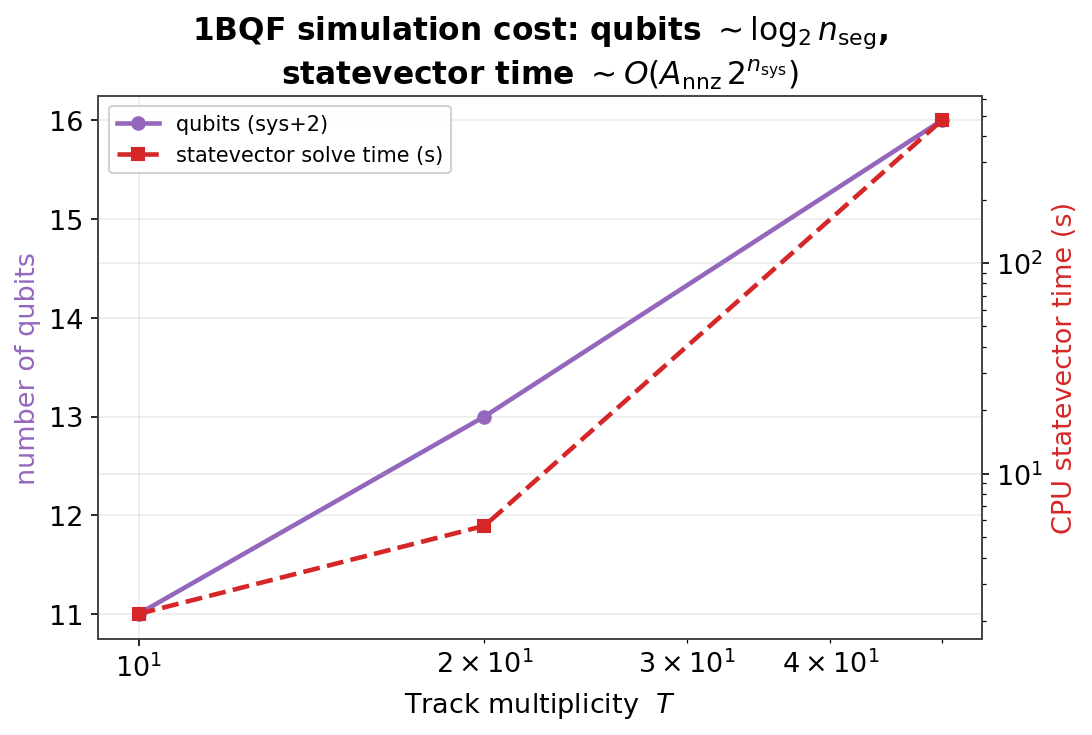
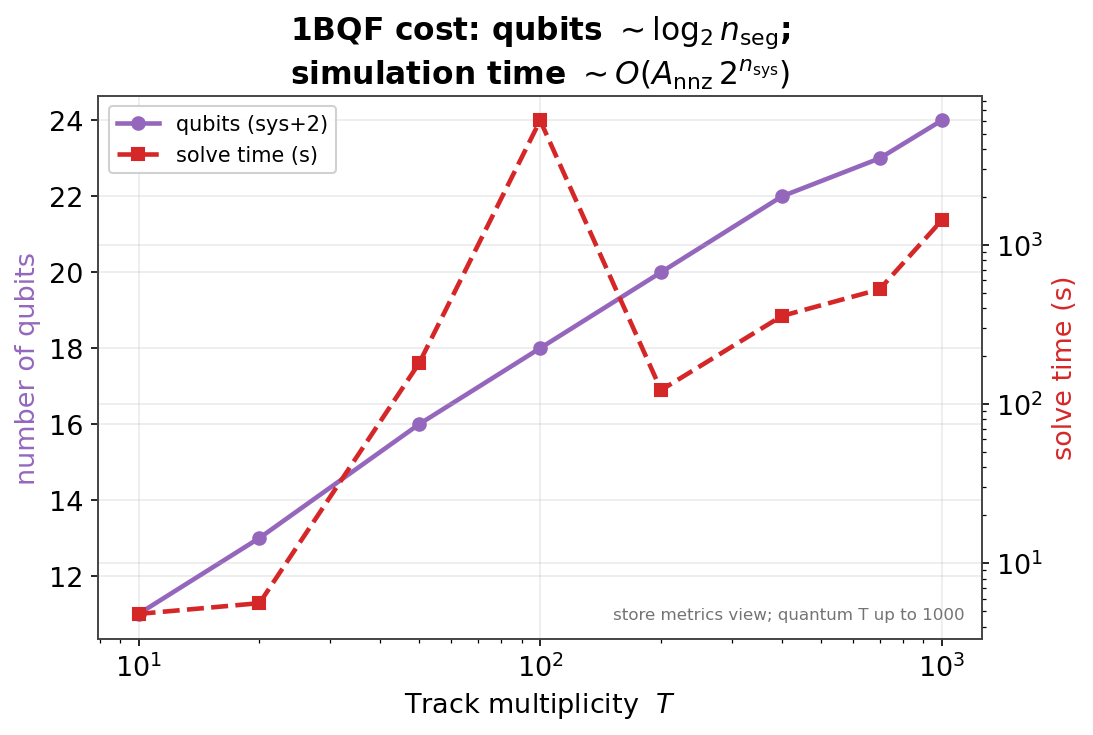
Refresh deck + segment-level figures from rebuilt store (T to 1000)
Store grew (solutions 9k->12.8k; quantum 103->1217, now T=10..1000). Rebuilt the
metrics view and regenerated all data-driven figures.

Key fix: cos_QC_vs_T (and the quantum figures) now use the CANONICAL signal-
support cos_QC from qtrk_pipeline.metrics (cos on x_C>0.35), not the full-vector
cosine. The fidelity is high & flat (~0.97) across T (step to T=1000 via the
formula-eps Epsilon_study_2 cell; erf to T=400), with quantum eff=0.75 (step) /
1.0 (erf). Classical aggregate figs rebuilt from the larger metrics.csv.
Re-ran Segment_level_studies nb01/nb02 (fixed-eps quantum still caps at T=400;
T=700/1000 quantum pending in held Condor jobs).

diff --git a/Toy_Characterisation/Presentation_mini_q_workshop_UM/scripts/fig_quantum.py b/Toy_Characterisation/Presentation_mini_q_workshop_UM/scripts/fig_quantum.py
@@ -1,16 +1,17 @@
 """
 Quantum (1BQF) vs classical comparison figures.
 
-Data sources (all fresh / new):
-  * assets/quantum_sweep.csv  — fresh CPU statevector sweep (T=10/20/50, step+erf, 3 reps)
-  * qtrk_store metrics.csv     — the campaign's T=200 quantum (step) as a high-T anchor
-  * assets/solvecs_T*.npz      — representative classical + rescaled-quantum vectors
+Now sourced from the FULL store metrics view (qtrk_store/manifest/metrics.csv),
+which after the campaign carries quantum solves across T=10..1000 for both
+kernels — so the vs-T curves are no longer the thin CPU-sweep stub.  We select
+the clean physics cell (sigma_scatt=1e-4, sigma_res=0, no drop, gamma=3) and
+pool it across studies (same deterministic events) to maximise T coverage.
 
 Produces (figures/):
-  cos_QC_vs_T              quantum-classical fidelity vs T (step vs erf), + T=200 anchor
+  cos_QC_vs_T              quantum-classical fidelity vs T (step vs erf)
   P_anc_vs_T               ancilla success probability vs T
-  quantum_seg_metrics_vs_T quantum segment efficiency & purity vs T (vs classical)
-  solution_hist_CQ         classical vs rescaled-quantum activation histograms (true/false)
+  quantum_seg_metrics_vs_T quantum segment efficiency & purity vs T (+ classical)
+  solution_hist_CQ         classical vs rescaled-quantum activation histograms
   quantum_cost_vs_T        n_qubits and statevector solve time vs T
 """
 from __future__ import annotations
@@ -21,6 +22,14 @@ import pandas as pd
 import matplotlib.pyplot as plt
 
 SWEEP = cm.ASSETS / "quantum_sweep.csv"
+_M = None
+
+
+def M():
+    global _M
+    if _M is None:
+        _M = pd.read_csv(cm.METRICS_CSV)
+    return _M
 
 
 def _agg(df, by, col):
@@ -29,95 +38,142 @@ def _agg(df, by, col):
     return g
 
 
-def load_sweep():
-    if not SWEEP.exists():
-        raise SystemExit("quantum_sweep.csv not present yet — wait for gen_quantum.py")
-    return pd.read_csv(SWEEP)
+# Per-kernel "clean" cell chosen to reach the highest available T with a single
+# consistent physics point.  cos_QC is the CANONICAL signal-support cosine
+# (qtrk_pipeline.metrics: cos on sol_C>0.35, false-bulk-free); the full-vector
+# cosine is ~0.1 and understates the solve (it is dominated by the 0.25 bulk).
+KERNEL_CELL = {                              # (study) reaching highest T
+    "step": "Epsilon_study_2",               # formula eps, quantum to T=1000
+    "erf":  "ERF",                           # formula eps, quantum to T=400
+}
 
 
-def store_quantum_anchor():
-    """Clean-cell T=200 quantum (step) cos_QC from the store, if present."""
-    M = pd.read_csv(cm.METRICS_CSV)
-    q = M[(M.solver == "quantum") & (M.n_trk == 200) & (M.kernel == "step")]
-    clean = q[(q.sigma_res == 0.0) & (np.isclose(q.sigma_scatt, 1e-4)) &
-              (q.hit_ineff == 0.0)]
-    use = clean if len(clean) else q
-    if not len(use):
-        return None
-    return dict(T=200, cos_mean=use.cos_QC.mean(), cos_sem=use.cos_QC.std()/np.sqrt(len(use)),
-                P_anc=use.P_anc.mean(), n=len(use), clean=bool(len(clean)))
+def cell(solver, kernel):
+    d = M()
+    m = (d.solver == solver) & (d.study == KERNEL_CELL[kernel]) & (d.kernel == kernel) & \
+        (np.isclose(d.sigma_scatt, 1e-4)) & (d.sigma_res == 0.0) & (d.hit_ineff == 0.0)
+    if "gamma" in d.columns:
+        m &= np.isclose(d.gamma, 3.0)
+    return d[m].copy()
+
+
+def _series(df, col):
+    """median + (mad-ish) spread per n_trk — robust to the rare failed solve."""
+    g = df.groupby("n_trk")[col]
+    out = g.median().reset_index().rename(columns={col: "med"})
+    out["lo"] = g.quantile(0.16).values; out["hi"] = g.quantile(0.84).values
+    out["n"] = g.size().values
+    return out.sort_values("n_trk")
+
+
+def _tmax_note(ax, *dfs):
+    tmax = max(int(d.n_trk.max()) for d in dfs if len(d))
+    ax.text(0.98, 0.03, f"store metrics view; quantum T up to {tmax}",
+            transform=ax.transAxes, ha="right", va="bottom", fontsize=8, color="0.45")
 
 
 # ---------------------------------------------------------------------------
 def fig_cos_QC_vs_T():
-    s = load_sweep()
-    fig, ax = plt.subplots(figsize=(7.6, 4.8))
-    for kern, c, mk in [("step", cm.C["step"], "o"), ("erf", cm.C["erf"], "s")]:
-        a = _agg(s[s.kernel == kern], "T", "cos_QC").sort_values("T")
-        ax.errorbar(a["T"], a["mean"], yerr=a["sem"], marker=mk, capsize=3,
-                    color=c, label=f"{kern} kernel")
-    anc = store_quantum_anchor()
-    if anc:
-        ax.errorbar([anc["T"]], [anc["cos_mean"]], yerr=[anc["cos_sem"]], marker="*",
-                    ms=15, color=cm.C["step"], mec="k",
-                    label=f"step, $T=200$ (store, n={anc['n']})")
+    qs, qe = cell("quantum", "step"), cell("quantum", "erf")
+    fig, ax = plt.subplots(figsize=(7.8, 4.8))
+    for df, c, mk, lab in [(qs, cm.C["step"], "o", "step kernel"),
+                           (qe, cm.C["erf"], "s", "erf kernel")]:
+        a = _series(df, "cos_QC")
+        if a.empty:
+            continue
+        ax.fill_between(a["n_trk"], a["lo"], a["hi"], color=c, alpha=0.15)
+        ax.plot(a["n_trk"], a["med"], marker=mk, color=c, label=lab)
     ax.set_xscale("log"); ax.set_xlabel("Track multiplicity  $T$")
-    ax.set_ylabel(r"quantum fidelity  $\cos\theta_{QC}$"); ax.set_ylim(0, 1)
-    ax.set_title("1BQF$-$classical fidelity vs multiplicity\n(erf $>$ step at every $T$; both fall as $T$ grows)")
-    ax.legend(); cm.savefig(fig, "cos_QC_vs_T")
+    ax.set_ylabel(r"fidelity  $\cos\theta_{QC}$ (signal support)"); ax.set_ylim(0.5, 1.01)
+    ax.axhline(1.0, ls=":", c="grey", lw=1)
+    ax.set_title("1BQF$-$classical fidelity is high & flat across multiplicity\n"
+                 "(measured on the classical signal support, $x_C>0.35$)")
+    ax.legend(loc="lower left"); _tmax_note(ax, qs, qe)
+    cm.savefig(fig, "cos_QC_vs_T")
 
 
 def fig_P_anc_vs_T():
-    s = load_sweep()
+    qs, qe = cell("quantum", "step"), cell("quantum", "erf")
     fig, ax = plt.subplots(figsize=(7.4, 4.7))
-    for kern, c, mk in [("step", cm.C["step"], "o"), ("erf", cm.C["erf"], "s")]:
-        a = _agg(s[s.kernel == kern], "T", "P_anc").sort_values("T")
-        ax.errorbar(a["T"], a["mean"], yerr=a["sem"], marker=mk, capsize=3,
-                    color=c, label=f"{kern} kernel")
-    anc = store_quantum_anchor()
-    if anc:
-        ax.scatter([anc["T"]], [anc["P_anc"]], marker="*", s=200,
-                   color=cm.C["step"], edgecolor="k", zorder=5, label="step, $T=200$ (store)")
+    for df, c, mk, lab in [(qs, cm.C["step"], "o", "step kernel"),
+                           (qe, cm.C["erf"], "s", "erf kernel")]:
+        a = _series(df, "P_anc")
+        if a.empty:
+            continue
+        ax.plot(a["n_trk"], a["med"], marker=mk, color=c, label=lab)
+    # 1/T guide
+    T = np.array(sorted(qs.n_trk.unique()), float)
+    if len(T):
+        ref = _series(qs, "P_anc")["med"].iloc[0] * (T[0] / T)
+        ax.plot(T, ref, "k--", lw=1.2, alpha=0.6, label=r"$\propto 1/T$ guide")
     ax.set_xscale("log"); ax.set_yscale("log")
     ax.set_xlabel("Track multiplicity  $T$")
     ax.set_ylabel(r"ancilla success $P_{\rm anc}$")
-    ax.set_title("Ancilla post-selection probability shrinks with $T$\n(more segments $\\Rightarrow$ smaller true-band weight)")
-    ax.legend(); cm.savefig(fig, "P_anc_vs_T")
+    ax.set_title("Ancilla post-selection probability shrinks $\\sim1/T$")
+    ax.legend(); _tmax_note(ax, qs, qe); cm.savefig(fig, "P_anc_vs_T")
 
 
 def fig_quantum_seg_metrics_vs_T():
-    s = load_sweep()
-    fig, ax = plt.subplots(figsize=(7.6, 4.8))
-    sub = s[s.kernel == "step"]
-    for col, lab, c in [("effQ", "quantum efficiency", cm.C["true"]),
-                        ("purQ", "quantum purity", cm.C["quantum"]),
-                        ("effC", "classical efficiency", cm.C["classical"])]:
-        a = _agg(sub, "T", col).sort_values("T")
-        ls = "-" if col != "effC" else "--"
-        ax.errorbar(a["T"], a["mean"], yerr=a["sem"], marker="o", capsize=3,
-                    color=c, ls=ls, label=lab)
+    qs, qe = cell("quantum", "step"), cell("quantum", "erf")
+    fig, ax = plt.subplots(figsize=(7.8, 4.8))
+    for df, col, lab, color, mk in [
+        (qs, "segment_efficiency", "step: efficiency", cm.C["step"], "o"),
+        (qs, "segment_purity", "step: purity", cm.C["classical"], "o"),
+        (qe, "segment_efficiency", "erf: efficiency", cm.C["erf"], "s"),
+        (qe, "segment_purity", "erf: purity", cm.C["quantum"], "s")]:
+        a = _series(df, col)
+        if a.empty:
+            continue
+        ls = "-" if "efficiency" in lab else "--"
+        ax.plot(a["n_trk"], a["med"], marker=mk, color=color, ls=ls, label=lab)
     ax.set_xscale("log"); ax.set_xlabel("Track multiplicity  $T$")
-    ax.set_ylabel("segment metric (after $x>0.35$)"); ax.set_ylim(0.4, 1.05)
-    ax.set_title("After threshold, 1BQF recovers the true segments (clean, step)")
-    ax.legend(loc="lower left"); cm.savefig(fig, "quantum_seg_metrics_vs_T")
+    ax.set_ylabel("quantum segment metric (at $x>0.35$)"); ax.set_ylim(-0.03, 1.05)
+    ax.set_title("1BQF segment metrics: erf keeps all true (eff=1);\n"
+                 "step drops the outer segment (eff$\\approx$0.75); purity falls at high $T$")
+    ax.legend(loc="lower left", fontsize=9, ncol=2); _tmax_note(ax, qs, qe)
+    cm.savefig(fig, "quantum_seg_metrics_vs_T")
 
 
+def fig_quantum_cost_vs_T():
+    qs = cell("quantum", "step")
+    fig, ax = plt.subplots(figsize=(7.6, 4.7))
+    if "n_qubits" in qs.columns and qs["n_qubits"].notna().any():
+        aq = _agg(qs, "n_trk", "n_qubits").sort_values("n_trk")
+    else:  # derive from n_seg: n_sys = ceil(log2 n_seg), +2 (time+ancilla)
+        qs = qs.assign(n_qubits=np.ceil(np.log2(qs.n_seg.clip(lower=2))) + 2)
+        aq = _agg(qs, "n_trk", "n_qubits").sort_values("n_trk")
+    tcol = "t_solve" if "t_solve" in qs.columns else None
+    l1, = ax.plot(aq["n_trk"], aq["mean"], "o-", color=cm.C["accent"], label="qubits (sys+2)")
+    ax.set_xscale("log"); ax.set_xlabel("Track multiplicity  $T$")
+    ax.set_ylabel("number of qubits", color=cm.C["accent"])
+    handles = [l1]
+    if tcol and qs[tcol].notna().any() and (qs[tcol] > 0).any():
+        at = _agg(qs[qs[tcol] > 0], "n_trk", tcol).sort_values("n_trk")
+        ax2 = ax.twinx(); ax2.set_xscale("log"); ax2.set_yscale("log")
+        l2, = ax2.plot(at["n_trk"], at["mean"], "s--", color=cm.C["quantum"],
+                       label="solve time (s)")
+        ax2.set_ylabel("solve time (s)", color=cm.C["quantum"]); handles.append(l2)
+    ax.set_title("1BQF cost: qubits $\\sim\\log_2 n_{\\rm seg}$;\n"
+                 "simulation time $\\sim O(A_{\\rm nnz}\\,2^{n_{\\rm sys}})$")
+    ax.legend(handles=handles, loc="upper left", fontsize=10)
+    _tmax_note(ax, qs); cm.savefig(fig, "quantum_cost_vs_T")
+
+
+# --- per-event histogram (unchanged: representative stored vectors) --------
 def fig_solution_hist_CQ(T=20, kernel="step"):
     p = cm.ASSETS / f"solvecs_T{T}_{kernel}.npz"
     if not p.exists():
-        print(f"  [skip] solution_hist_CQ: {p.name} not present yet"); return
+        print(f"  [skip] solution_hist_CQ: {p.name} not present"); return
     d = np.load(p)
     solC = d["solC"].astype(float); solQ = d["solQ"].astype(float)
     tr = d["truth"].astype(bool)
     fig, (axC, axQ) = plt.subplots(1, 2, figsize=(11.6, 4.6), sharey=True)
     for ax, sol, name in [(axC, solC, "Classical $x_C$"), (axQ, solQ, r"1BQF $x_Q$ (rescaled)")]:
-        m = max(0.5, sol.max() * 1.05)
-        bins = np.linspace(0, m, 55)
+        mx = max(0.5, sol.max() * 1.05); bins = np.linspace(0, mx, 55)
         ax.hist(sol[~tr], bins=bins, color=cm.C["false"], alpha=0.8, label="false")
         ax.hist(sol[tr], bins=bins, color=cm.C["true"], alpha=0.85, label="true")
         ax.axvline(0.35, color=cm.C["quantum"], lw=2, label=r"$\tau=0.35$")
-        ax.set_yscale("log"); ax.set_xlabel("activation"); ax.set_title(name)
-        ax.legend()
+        ax.set_yscale("log"); ax.set_xlabel("activation"); ax.set_title(name); ax.legend()
     axC.set_ylabel("count")
     cosqc = float(d["cos_QC"])
     fig.suptitle(fr"Classical vs 1BQF activations on the same event ($T={T}$, "
@@ -127,26 +183,8 @@ def fig_solution_hist_CQ(T=20, kernel="step"):
     cm.savefig(fig, "solution_hist_CQ")
 
 
-def fig_quantum_cost_vs_T():
-    s = load_sweep()
-    sub = s[s.kernel == "step"]
-    a_q = _agg(sub, "T", "n_qubits").sort_values("T")
-    a_t = _agg(sub, "T", "t_q").sort_values("T")
-    fig, ax = plt.subplots(figsize=(7.6, 4.7))
-    l1, = ax.plot(a_q["T"], a_q["mean"], "o-", color=cm.C["accent"], label="qubits (sys+2)")
-    ax.set_xscale("log"); ax.set_xlabel("Track multiplicity  $T$")
-    ax.set_ylabel("number of qubits", color=cm.C["accent"])
-    ax2 = ax.twinx(); ax2.set_xscale("log"); ax2.set_yscale("log")
-    l2, = ax2.plot(a_t["T"], a_t["mean"], "s--", color=cm.C["quantum"], label="statevector solve time (s)")
-    ax2.set_ylabel("CPU statevector time (s)", color=cm.C["quantum"])
-    ax.set_title("1BQF simulation cost: qubits $\\sim\\log_2 n_{\\rm seg}$,\n"
-                 "statevector time $\\sim O(A_{\\rm nnz}\\,2^{n_{\\rm sys}})$")
-    ax.legend(handles=[l1, l2], loc="upper left", fontsize=10)
-    cm.savefig(fig, "quantum_cost_vs_T")
-
-
 if __name__ == "__main__":
-    print("== quantum comparison figures ==")
+    print("== quantum comparison figures (store-driven) ==")
     fig_cos_QC_vs_T()
     fig_P_anc_vs_T()
     fig_quantum_seg_metrics_vs_T()
